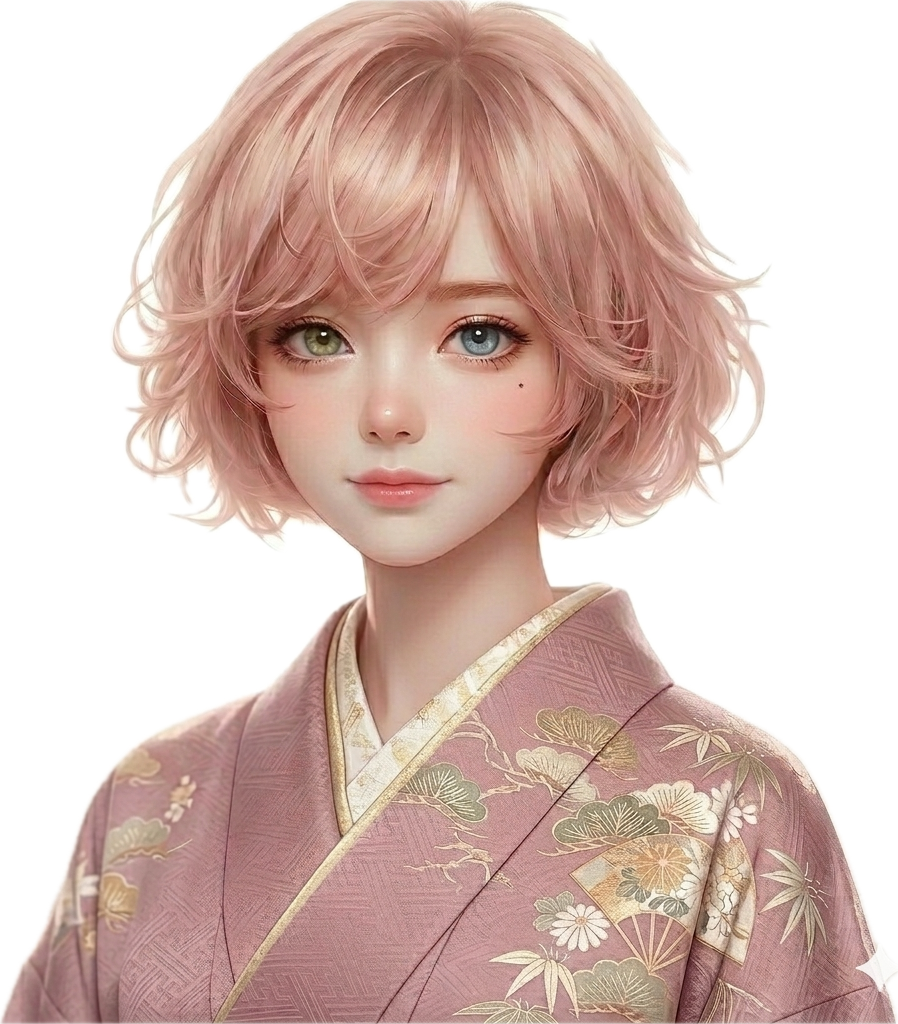
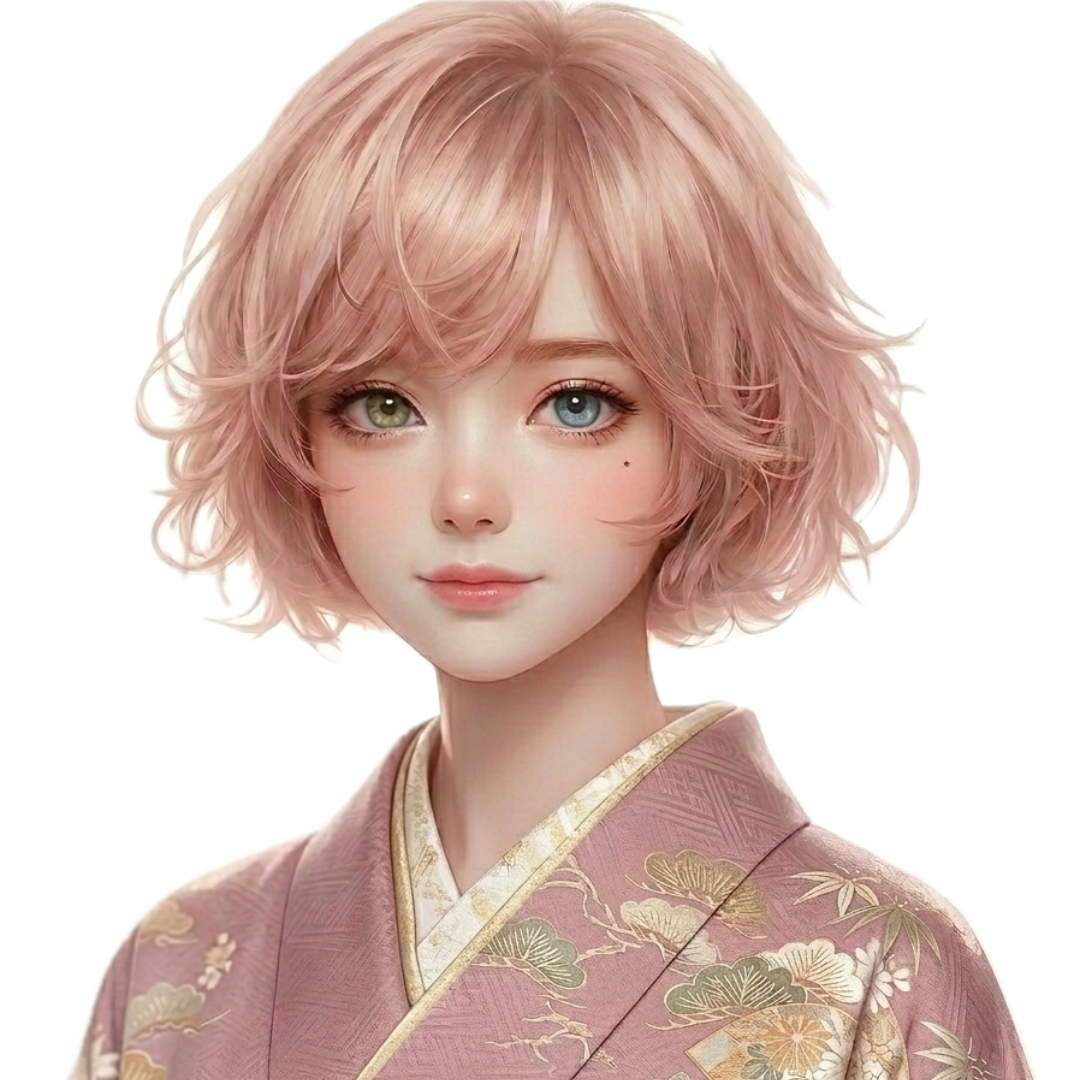
Add files via upload

diff --git a/room09/index.html b/room09/index.html
@@ -406,7 +406,7 @@ const CONFIG = {
   title:    "ART QUEST",
   artist:   "TOMOE.",
   role:     "Dreamy Story Art　AIアーティスト",
-  profile:  "今回のART QUESTでは、２つの作品のどこかに秘密の鍵が隠されています。\n作品を楽しみながら、ぜひ鍵を探してみてください🔑✨",
+  profile:  "今回のART QUESTでは、2つの作品のどこかに秘密の鍵が隠されています。\n作品を楽しみながら、ぜひ鍵を探してみてください🔑✨",
   closing:  "ご覧いただき、ありがとうございました。",
   links: [
     { label:"Instagram", url:"https://www.instagram.com/tomoe_art2/" }
